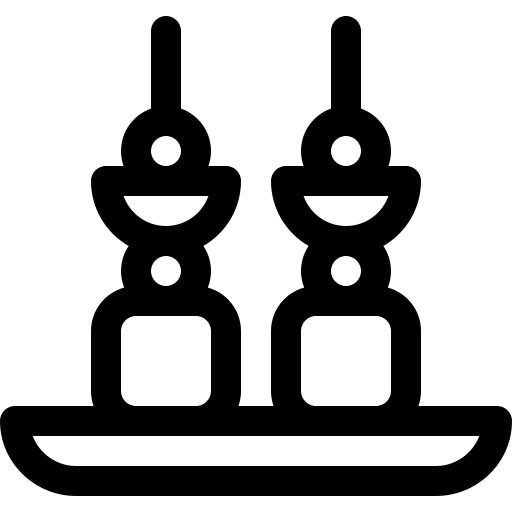
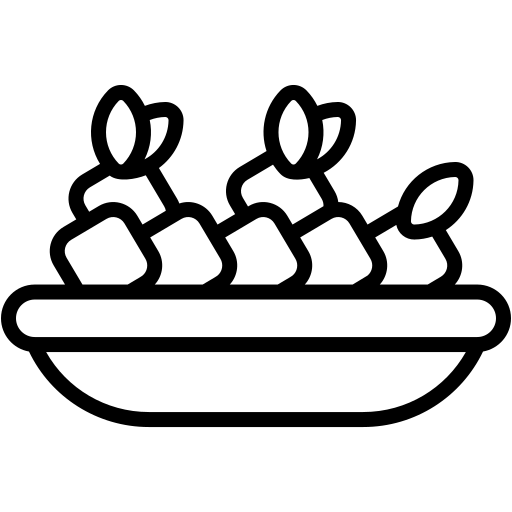
fix(devis): icône apéritif = plateau de canapés doré
Remplace le champagne par l’icône fournie, teintée #a77835
et affichée à 21px comme les autres pictogrammes.

diff --git a/clc-traiteur-pos/src/lib/devis-pdf-icons.ts b/clc-traiteur-pos/src/lib/devis-pdf-icons.ts
@@ -19,7 +19,7 @@ function flaticonIcon(filename: string): string {
   return html;
 }
 
-export const APERITIF_ICON = () => flaticonIcon("aperitif-champagne.png");
+export const APERITIF_ICON = () => flaticonIcon("aperitif-canapes.png");
 export const GRILL_ICON = () => flaticonIcon("grillades-barbecue.png");
 export const PLAT_CUISINES_ICON = () => flaticonIcon("plat-cloche.png");
 export const ACCOMPAGNEMENTS_ICON = () => flaticonIcon("accompagnement-riz.png");

diff --git a/clc-traiteur-pos/public/devis-icons/ATTRIBUTION.md b/clc-traiteur-pos/public/devis-icons/ATTRIBUTION.md
@@ -6,7 +6,7 @@ Licence gratuite : usage personnel et commercial avec attribution.
 | Fichier | Section | Icône | ID | Source |
 |---|---|---|---|---|
 | `entree-salade.png` | Entrée | Salade | 4103889 | https://www.flaticon.com/fr/icone-gratuite/salade_4103889 |
-| `aperitif-champagne.png` | Apéritif | Champagne | 3500795 | https://www.flaticon.com/fr/icone-gratuite/champagne_3500795 |
+| `aperitif-canapes.png` | Apéritif | Plateau de canapés | — | Icône fournie (teinte #a77835, 512×512 → 21px) |
 | `plat-cloche.png` | Plat | Cloche | 5613822 | https://www.flaticon.com/fr/icone-gratuite/cloche_5613822 |
 | `dessert-gateau.png` | Dessert | Gâteau au chocolat | 5373412 | https://www.flaticon.com/fr/icone-gratuite/gateau-au-chocolat_5373412 |
 | `accompagnement-riz.png` | Accompagnement | Bol de riz | 14534364 | https://www.flaticon.com/fr/icone-gratuite/bol-de-riz_14534364 |
